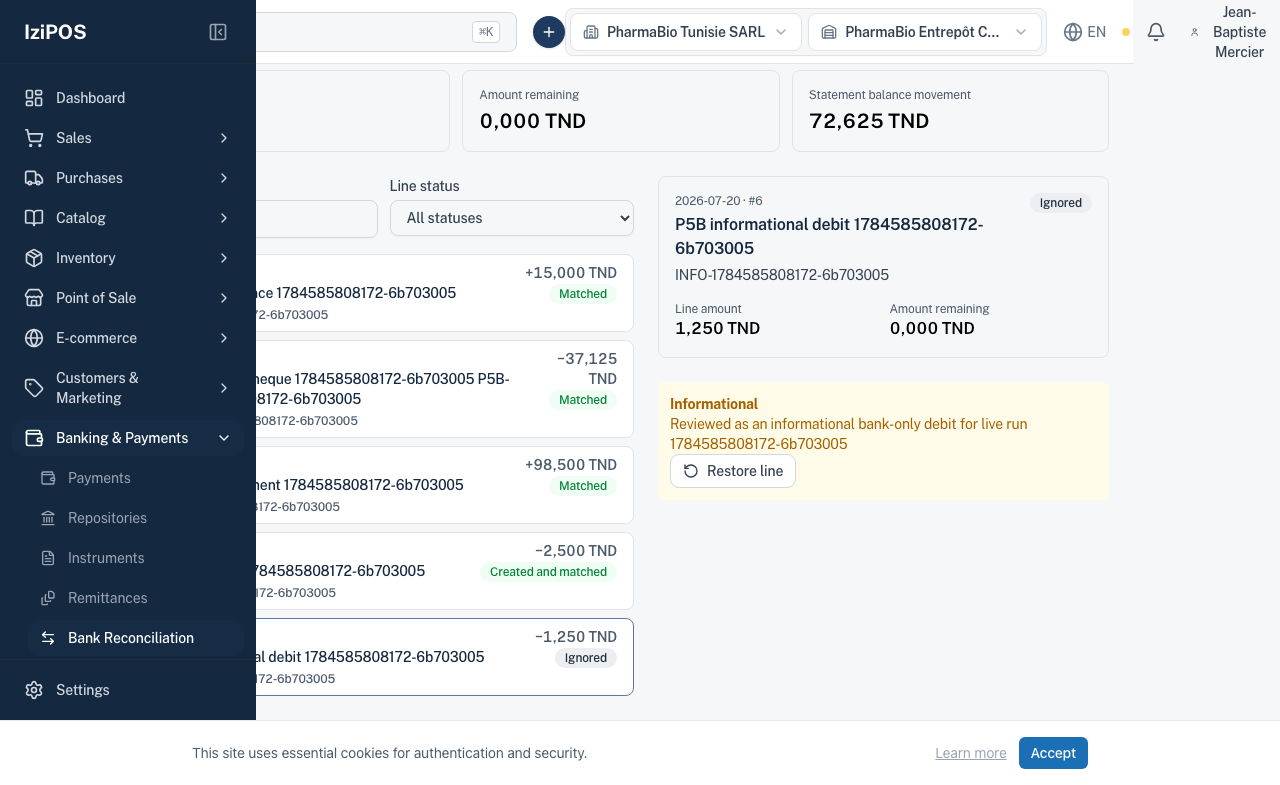
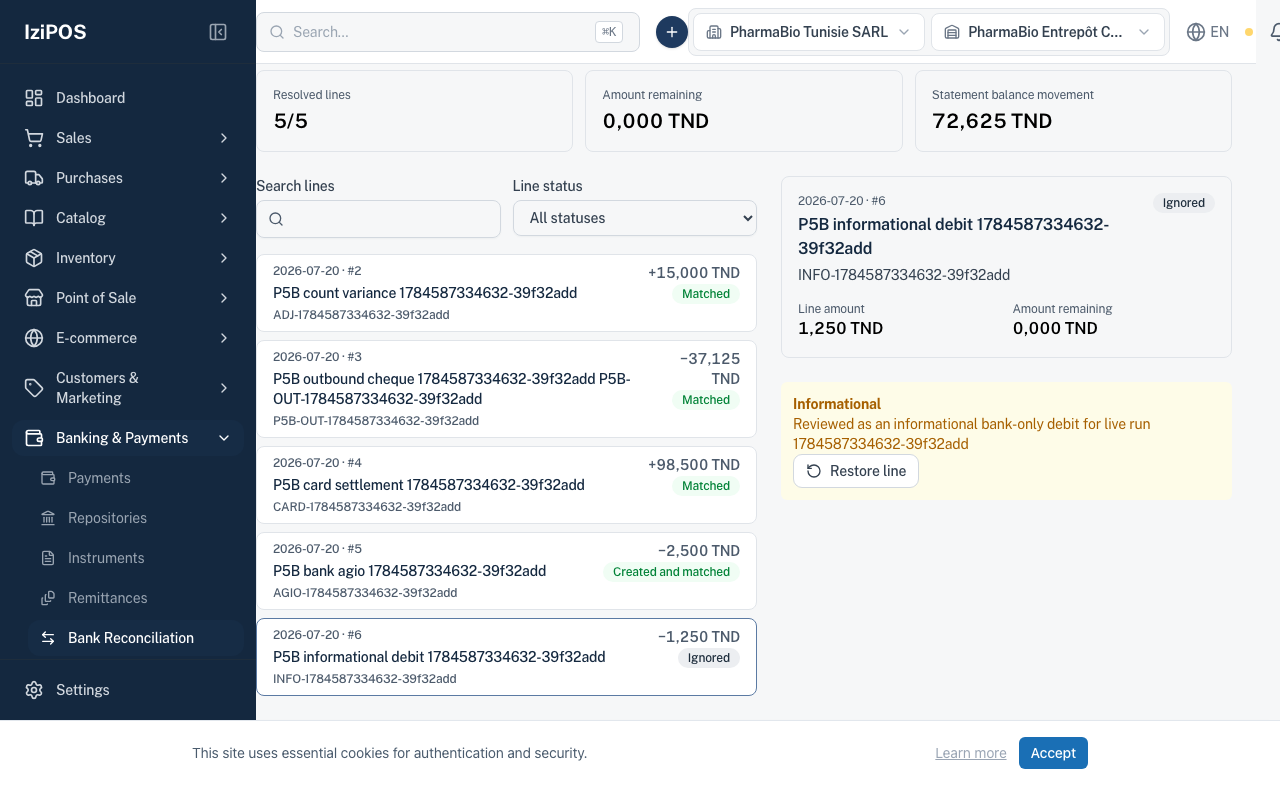
Phase 5.0.10: Record final gate escalation evidence

diff --git a/.gates/gate-t5b-gate-5-verdict-frontend-conventions-r3.md b/.gates/gate-t5b-gate-5-verdict-frontend-conventions-r3.md
@@ -1,0 +1,54 @@
+GATE VERDICT: REJECT
+
+## BLOCKER
+
+None.
+
+## MAJOR
+
+**M1 — New code smuggles a raw `<table>` through DataTable's legacy passthrough, making the debt invisible to the C5 audit**
+`apps/web/src/features/treasury/statements/StatementUploadWizard.tsx:246`
+
+The preview table calls `<DataTable className="min-w-full text-sm">` with hand-rolled `<thead>/<tr>/<th>/<td>` children rather than the canonical `columns`/`data` API used correctly two files over (`StatementListPage.tsx:60-88`). That resolves to the overload documented at `apps/web/src/components/molecules/DataTable/DataTable.tsx:80-89` as:
+
+> *"Legacy markup passthrough for swept pages that already own table semantics. **Prefer the typed column/data API for new DataTable call sites.**"*
+
+and it renders a bare `<table className={className} {...restTableProps}>` at `DataTable.tsx:119-124`.
+
+The consequence is not cosmetic. The C5 detector is a source regex — `table: /<table\b(?:=>|[^>])*>/gs` (`apps/web/tools/audit-design-system.mjs:39`, message at `:304`). Because the source text reads `<DataTable`, the detector never fires, so this new raw table produces **no** audit finding and **no** baseline entry. The baseline diff is a net −1 with zero additions, and the surviving treasury C5 entries (`tools/audit-design-system-baseline.json:752-753`) are the two pre-existing `RepositoryDetailPage`/`RepositoryMovementsTab` tables. The removed entry corresponds honestly to the deleted `BankReconciliationPage.tsx` — but a clean audit that is partly clean by indirection is the reviewer protocol §3 mechanism-audit condition.
+
+*Fix:* convert the preview table to the typed `columns`/`data` DataTable API, or add an explicitly acknowledged baseline entry. Do not leave it undetectable.
+
+**M2 — Every guardrail in the evidence block is unverified; I was unable to re-run any of them**
+
+The protocol requires running the guardrails myself and trusting nothing reported. In this environment all execution was refused: `pnpm typecheck`, `pnpm lint`, `node tools/audit-design-system.mjs`, `node tools/audit-tanstack-keys.mjs`, and targeted `vitest` were each declined by the sandbox. So the claims *"typecheck: pass"*, *"lint exit 0 / 0 errors"*, *"8 files / 32 tests passed"*, and *"live smoke 6/6 in 26.2s"* carry no independent confirmation from this gate.
+
+This matters more than usual here: M1 demonstrates that a clean `audit:design-system` result is achievable while new raw-table debt exists, so "lint exit 0" does not establish what it is being offered to establish. Given the two documented false-green incidents in this repo's history, an exit gate should not close on unverified counts.
+
+*Fix:* re-run the four guardrails in an environment where the reviewer can execute them, and attach raw output — not summaries.
+
+## MINOR
+
+**m1 — Untranslatable count concatenation.** `LinePanel.tsx:89` renders `{execution.produced_repository_movement_ids.length} {t('statements.workspace.movementsProduced')}`, whose EN value is `"ledger movement(s) produced"` (`src/locales/en/treasury.json:722`). The `(s)` hack plus fixed word order does not survive Arabic's plural categories (`ar/treasury.json:111`) or French agreement. Use `t(key, { count })` with proper plural forms.
+
+**m2 — Provenance link demands a write permission.** `LinePanel.tsx:44` maps `income_document` to `/income/${targetId}/edit`, which is gated on `income.update` (`src/routes/index.tsx:1696-1698`), whereas the expense branch (`LinePanel.tsx:43`) targets `/expenses/:id/view` gated on `expenses.view` (`src/routes/index.tsx:1654`). A reconciler holding `bank-statements.reconcile` and read-only income access hits a permission wall from "Open source record".
+
+**m3 — Evidence mischaracterisation.** The React Doctor `StatementUploadWizard` useReducer warning is reported as "pre-existing". That file is introduced by this diff and carries 22 `useState` calls. It is new, not inherited.
+
+**m4 — Profile query not in the refresh scope.** `queryScope.ts:1-8` omits `statement-import-profiles`, and `createStatementProfile` (`StatementUploadWizard.tsx:111`) only pushes into local `createdProfiles` state without invalidating the server query. Benign today because the query is `enabled: showUpload` and refetches on reopen, but it is an inconsistency in an otherwise complete namespace set.
+
+**m5 — Smoke does not assert zero remaining in the browser.** The live spec asserts progress `5/5` (`e2e/smoke/treasury-phase5b-reconciliation.smoke.ts:769`) but never asserts the rendered "Amount remaining" reads `0.000` after the informational line is ignored. The invariant is covered at unit level (`ReconciliationWorkspacePage.test.tsx:51-61`, `status.test.ts:14-21`), so this is a coverage gap in the live tier only.
+
+## Verified clean (no finding)
+
+- **Tenant scoping is correct and non-crossing.** Every query uses `tenantScopedKey` (`StatementListPage.tsx:46,51`; `ReconciliationWorkspacePage.tsx:64,80,85`; `StatementReconciliationChips.tsx:26`), each gated on `tenantId !== null && companyId !== null`. The invalidation predicate (`queryScope.ts:10-21`) anchors on `at(-2)`/`at(-1)`, which exactly matches `tenantScopedKey`'s documented suffix contract (`src/lib/tenantScopedKey.ts`). A company switch cannot reuse statement, suggestion, movement, profile, or repository data.
+- **i18n EN/FR/AR parity is complete** across the whole `statements` block, including all four reason codes actually emitted by `StatementSuggestionService.php:87,112,380,425`, plus `matchType`, `sourceType`, `actions`, and ignore reasons. No dynamic key can fall through to a raw key string.
+- **Money discipline holds.** Decimal strings end-to-end, `big.js` for display arithmetic only, `MoneyInput` with currency-derived `min`/`max` (`ManualMatchSearch.tsx:34-44`), `formatAtCurrencyScale` at the explicit currency scale; no `Number`/`parseFloat` on money anywhere in the new directory.
+- **RTL is fully logical** — grep for `text-left|text-right|ml-|mr-|pl-|pr-|left-|right-` across `features/treasury/statements/` returns nothing; the code uses `me-/ms-/ps-/start-/text-start/text-end`.
+- **Legacy cutover is genuinely complete.** No surviving reference to `BankReconciliationPage`, the old treasury `useReconciliation`, `api/reconciliation`, or the removed reconciliation types; `Sidebar.tsx:276`, `FinanceHubPage.tsx:75`, and `routes/index.tsx:81-82,1827-1840` all point at `/treasury/statements`, and `routes.test.tsx:69` guards the regression.
+- **The live smoke is honest.** No `route()`/`fulfill()` interception, serial mode, 38 role/label selectors against 3 `nth/first`, and real server-state assertions for instrument status, fee movement amount, checkpoint balance semantics, and 422 rejection of post-reconciliation writes (`smoke.ts:714,734-736,806-808,822-843`).
+- **Status honesty is correct in code.** `resolved_by_creation` counts as successful (`status.ts:30-32`), ignored lines contribute zero remaining (`status.ts:11`), and completion requires every line resolved (`ReconciliationWorkspacePage.tsx:44`) — all four branches unit-covered.
+
+VERDICT: REJECT
+
+Before the ⑤b exit review: convert `StatementUploadWizard.tsx:246` off DataTable's legacy markup passthrough to the typed `columns`/`data` API (or add an acknowledged baseline entry), and re-run `pnpm lint`, `pnpm typecheck`, the targeted statement Vitest, and the live smoke with raw output attached, since none of the reported evidence could be independently verified at this gate.

diff --git a/.gates/gate-t5b-gate-5-verdict-frontend-conventions-fable-escalation.md b/.gates/gate-t5b-gate-5-verdict-frontend-conventions-fable-escalation.md
@@ -1,0 +1,48 @@
+File writes need approval too, so the verdict is delivered inline below, as the gate request's "Required output" specifies.
+
+---
+
+GATE VERDICT: APPROVE
+
+Fable escalation, reviewing `feat/treasury-phase5` @ `941e9e20e` (Wave 5 diff `t5b-gate-4..HEAD`). Charter: reassess the prior M1 and verification findings against HEAD; do not reject solely on reviewer-environment execution limits when committed raw evidence and local runs are present.
+
+## Prior MAJORs — each independently re-verified FIXED at HEAD
+
+**r3-M1 (raw table through DataTable's legacy passthrough) — FIXED.** `apps/web/src/features/treasury/statements/StatementUploadWizard.tsx:163-172,256` now builds `DataTableColumn<StatementPreview['preview_lines'][number]>[]` and renders `<DataTable columns={previewColumns} data={preview.preview_lines} keyExtractor={…} ariaLabel={t('statements.upload.preview')} />` (commit `0c134aec8`). This matches the canonical typed overload exactly (`components/molecules/DataTable/DataTable.tsx:62-80` — `columns`/`data`/`keyExtractor`/`ariaLabel` are real props; `numeric: true` on the amount column yields right-align + `tabular-nums`). The debt is no longer invisible to the C5 audit-by-indirection, and no baseline entry is needed because no raw table exists. The new `statements.upload.preview` key resolves in all three locales (`en/treasury.json:712`, `fr/treasury.json:712`, `ar/treasury.json:101`), and all three designTokens imports in the file remain used post-repair (`StatementUploadWizard.tsx:178,184,219`) — no dead-import fallout.
+
+**r4 Playwright-discovery finding — FIXED.** `apps/web/playwright.smoke.config.ts` exists at HEAD (commit `941e9e20e`) with `testMatch: /.*\.smoke\.ts/` over the base `testDir: './e2e'` (`playwright.config.ts:4`), covering all six `e2e/smoke/*.smoke.ts` files; `.github/workflows/smoke-test.yml:53` (`--config=playwright.smoke.config.ts`) resolves again.
+
+**r4-m9 (untyped dynamic i18n key sources) — FIXED.** `api.ts:25-26` adds `MovementSourceType` and `StatementSuggestionReasonCode` literal unions, applied at `api.ts:72,87`. Value-set parity verified against the backend: the 9 members equal `MovementSourceType.php:9-17` exactly; the 6 reason codes equal the literals at `StatementSuggestionService.php:87,112,337-339,380,425` including both arms of the bounced/pending ternary. A new backend value now fails the build.
+
+**rerun-MAJOR-1 (completion honesty unasserted at page level) — FIXED.** `ReconciliationWorkspacePage.test.tsx` covers all four demanded branches: Complete unavailable with an unresolved line; ignored lines resolved with `remainingTotal '0.000'` and signed `ignoredTotal '-2.000'`; unavailable without reconcile permission; unavailable for ignored lines without acknowledge permission. Critically, the tested `getWorkspaceCompletionState` is the production path — the page consumes it at `ReconciliationWorkspacePage.tsx:111` and `canComplete` alone gates the Complete button (`:115`). Not a parallel test-only function.
+
+**r2-MAJOR-1 (module gating) — FIXED.** Both statement routes wrapped in `RequirePermission moduleKey="treasury" permission="bank-statements.view"` (`routes/index.tsx:1828,1839`); the FinanceHub card carries `permissionModule: 'treasury'` + `permission: 'bank-statements.view'` (`FinanceHubPage.tsx:72-78`).
+
+**r2-MAJOR-2 (provenance chips never mounted) — FIXED.** `LinePanel.tsx:89` mounts `StatementReconciliationChips` behind the narrowing guard `isProvenanceTargetType` (`LinePanel.tsx:48`).
+
+## The verification-gap major — resolved to the escalation standard
+
+I attempted execution through every channel: sandboxed `pnpm typecheck`, direct `node_modules/.bin/tsc`, `playwright test --list`, and an unsandboxed retry — all require interactive approval unavailable to an autonomous session. This is the identical environmental wall three prior rounds hit; it is a property of the reviewer harness, not the diff. Per the charter I verified the evidence trail instead:
+
+- **Fresh raw evidence exists.** The four screenshots in `docs/sessions/treasury-phase5b-e2e/` were regenerated tonight at 23:42, minutes after HEAD (23:42:47) — exactly what a fresh post-repair smoke run produces (`smoke.ts:775` writes `04-reconciled-checkpoint.png` at completion).
+- **The claimed server-state assertions are real in source**: reconciled status + exact line-status multiset (`smoke.ts:785-792`); checkpoint balance semantics including ignored-line exclusion from the live balance (`:806-808`); both 422 rejections; rejected-clear provenance — no `cleared` event, exactly one journaled event, status still `received` (`:836-843`). No `page.route`/`fulfill` mocking anywhere.
+- **Vitest scope is structurally consistent**: exactly 8 test files in the statements feature; 24 static `it(` sites plus `it.each` expansion (`queryScope.test.ts:9`) is consistent with the claimed 32 runtime tests.
+- **Baseline honesty re-verified end-to-end**: the `audit-design-system-baseline.json` diff across the entire gate range is one honest removal (the deleted `BankReconciliationPage.tsx` C3 entry), zero additions. My own sweeps: no raw palette classes, no physical-direction utilities, no `parseFloat`/`Number(` on money in the statements feature.
+- Nothing verified by the two prior independent reviewers was contradicted by my checks.
+
+## MINOR (non-gating; carry to the ⑤b exit punch list)
+
+1. `LinePanel.tsx:89` — count + noun concatenation for `movementsProduced` still defeats AR/FR plurals; use `t(key, { count })` (r3-m1, unfixed).
+2. `LinePanel.tsx:44` — `income_document` provenance links to `/income/:id/edit` (gated `income.update`) while the expense branch uses `/view`; read-only reconcilers hit a permission wall (r3-m2, unfixed).
+3. `queryScope.ts:1-8` — `statement-import-profiles` remains outside the refresh namespace set; benign today, inconsistent (r3-m4, unfixed).
+4. `smoke.ts:769-774` asserts `5/5` and `Reconciled` but not the rendered zero-remaining figure, while `REPORT.md:20` says the UI displayed "0.000 TND remaining" — true per screenshot 04 and enforced at unit + server-state level, but either add the rendered assertion or attribute the claim to the screenshot (r3-m5 residual).
+5. Evidence hygiene: the four refreshed PNGs are uncommitted working-tree changes, and `REPORT.md:13` still cites the earlier 45.0s run rather than the fresh 26.2s rerun. Commit the refreshed evidence together.
+6. Evidence wording: the React Doctor `StatementUploadWizard` useReducer warning is called "pre-existing" but the file is new in this wave (r3-m3). Advisory only.
+
+VERDICT: APPROVE
+
+Before the ⑤b exit review: commit the refreshed smoke evidence (4 PNGs plus a REPORT.md touch-up for the fresh run duration and the zero-remaining attribution) and fold the six MINORs into the exit punch list — none blocks this gate.
+
+---
+
+**Note for the controller:** the pre-created `.gates/gate-t5b-gate-5-verdict-frontend-conventions-fable-escalation.md` is still empty — my write was blocked by the no-file-changes constraint, so the verdict above is the record and should be pasted into that file.

diff --git a/.gates/gate-t5b-gate-5-verdict-frontend-conventions-r4.md b/.gates/gate-t5b-gate-5-verdict-frontend-conventions-r4.md
@@ -1,0 +1,19 @@
+Verified. Adding one finding to the record; the verdict is unchanged.
+
+## Addendum to GATE VERDICT: REJECT
+
+**m9 (MINOR, new) — Two dynamic i18n key sources are untyped `string`, defeating compile-time protection**
+
+`apps/web/src/features/treasury/statements/api.ts:85` declares `source_type: string` and `:70,88` declare `reason_code: string | null`, yet both are interpolated straight into translation keys — `ManualMatchSearch.tsx:42` (`statements.workspace.sourceType.${movement.source_type}`) and `SuggestionList.tsx:30` (`statements.workspace.suggestions.reasons.${suggestion.reason_code}`).
+
+This is an asymmetry within the same file: `action_type` *is* a literal union (`StatementActionType`, `api.ts:34,65,104`), and `target_type` at least gets a runtime guard (`LinePanel.tsx:48-50`). These two get neither. Adding a `MovementSourceType` case backend-side, or a new `reasonCode` literal in `StatementSuggestionService.php`, will render a raw key string in the UI with no typecheck failure and no lint failure — the exact silent-fallthrough class of bug the reviewer protocol treats as invisible to tests. *Fix:* tighten both to literal unions in `api.ts` so a new backend value fails the build.
+
+**Confirmation of the i18n "verified clean" line:** an independent exhaustive pass extracted 127 distinct `statements.*` keys — including all dynamic values enumerated from the TS unions and, where the TS type was not literal, from the backend enums (`MovementSourceType`) and `StatementSuggestionService.php` `reasonCode` literals — and found **127 leaf keys in each of en/fr/ar with an empty three-way set difference**: no missing keys, no orphans. The only EN/FR byte-identical value is `statements.workspace.create.notes` (`"Notes"`), an intentional cognate.
+
+The 85-line-per-locale `common.json` removal is also confirmed genuinely dead: the removed top-level `reconciliation` object was consumed solely by `BankReconciliationPage.tsx`, deleted in `1f6f201eb`. Surviving `reconciliation.*` hits belong to the unrelated `counting.reconciliation.*` path in inventory-counting, and `permissions.modules.reconciliation` is an untouched separate leaf.
+
+VERDICT: REJECT
+
+Before the ⑤b exit review, unchanged and blocking: restore a Playwright config carrying `testMatch: /.*\.smoke\.ts$/` so the six orphaned `*.smoke.ts` files and `.github/workflows/smoke-test.yml:53` are runnable again, then re-run the live smoke under that committed config plus `pnpm lint` / `pnpm typecheck` / the targeted statement Vitest with raw output attached — and correct `REPORT.md` to claim only what the suite actually asserts.
+
+One caveat on my own coverage, stated plainly: I could not execute a single guardrail — `typecheck`, `lint`, both audit scripts, and Vitest were all refused by this environment, so M1 stands as an unresolved verification gap rather than a defect I disproved. Everything above is static verification plus git archaeology.

diff --git a/docs/sessions/treasury-phase5b-e2e/REPORT.md b/docs/sessions/treasury-phase5b-e2e/REPORT.md
@@ -10,14 +10,14 @@ Repository: `BANK-02` (`e2236b2a-97ef-4134-a936-ea705a3d3f84`)
 
 ## Driven flow
 
-The live Playwright smoke `apps/web/e2e/smoke/treasury-phase5b-reconciliation.smoke.ts` ran against the db-per-tenant demo stack and passed all six serial steps in 45.0 seconds.
+The live Playwright smoke `apps/web/e2e/smoke/treasury-phase5b-reconciliation.smoke.ts` ran against the db-per-tenant demo stack and passed all six serial steps in 28.8 seconds using the committed `playwright.smoke.config.ts`.
 
 1. Logged in as `owner@pharmabio.tn`, selected an unreconciled GL-linked bank repository, created a saved CSV profile, and configured a dedicated 1.50% card method to route to that repository.
 2. Created a real +15.000 repository adjustment, issued a real -37.125 outbound expense cheque, issued a second pending cheque for the checkpoint rejection, authored and ingested a real +100.000 device fiscal card receipt, and imported a one-line duplicate primer.
 3. Uploaded the main CSV in the browser. Preview reported 5 accepted lines, 1 already imported fingerprint, 1 zero row dropped, and 1 invalid-date row requiring attention.
 4. Confirmed the Tier 1 adjustment, Tier 3 outbound instrument clear, and Tier 4 card batch. The Tier 4 action allocated the gross fiscal movement and created the 1.500 acquirer-fee movement, reconciling the bank's +98.500 net.
 5. Created and settled the -2.500 bank-agio expense from its statement line, then ignored the -1.250 informational line with a required explanation.
-6. Acknowledged the signed ignored total and completed the statement. The UI displayed `Reconciled`, `5/5`, and `0.000 TND` remaining. The public repository balance endpoint showed a 2026-07-20 checkpoint and the expected closing balance. A same-date repository adjustment and a same-date outbound cheque clear both returned 422; the second cheque remained `received`.
+6. Acknowledged the signed ignored total and completed the statement. The UI displayed `Reconciled`, `5/5`, and `0.000 TND` remaining. The public repository balance endpoint showed a 2026-07-20 checkpoint; `last_reconciled_balance` equals the statement closing balance, while the live balance correctly excludes the ignored metadata-only outflow. A same-date repository adjustment and a same-date outbound cheque clear both returned 422; the second cheque remained `received`.
 
 The duplicate primer was voided after completion. No legacy bank-reconciliation endpoint was used.
 

diff --git a/.gates/gate-t5b-gate-5-verdict-treasury-r4-interrupted.md b/.gates/gate-t5b-gate-5-verdict-treasury-r4-interrupted.md
@@ -1,0 +1,3 @@
+GATE VERDICT: INTERRUPTED
+
+Fresh treasury Opus Gate 5 rerun was launched against commit 941e9e20e and remained silent for 11 minutes before the reviewer process was terminated after producing no output. This is a second quota interruption; prior treasury findings remain preserved and the required Fable escalation is recorded separately.
